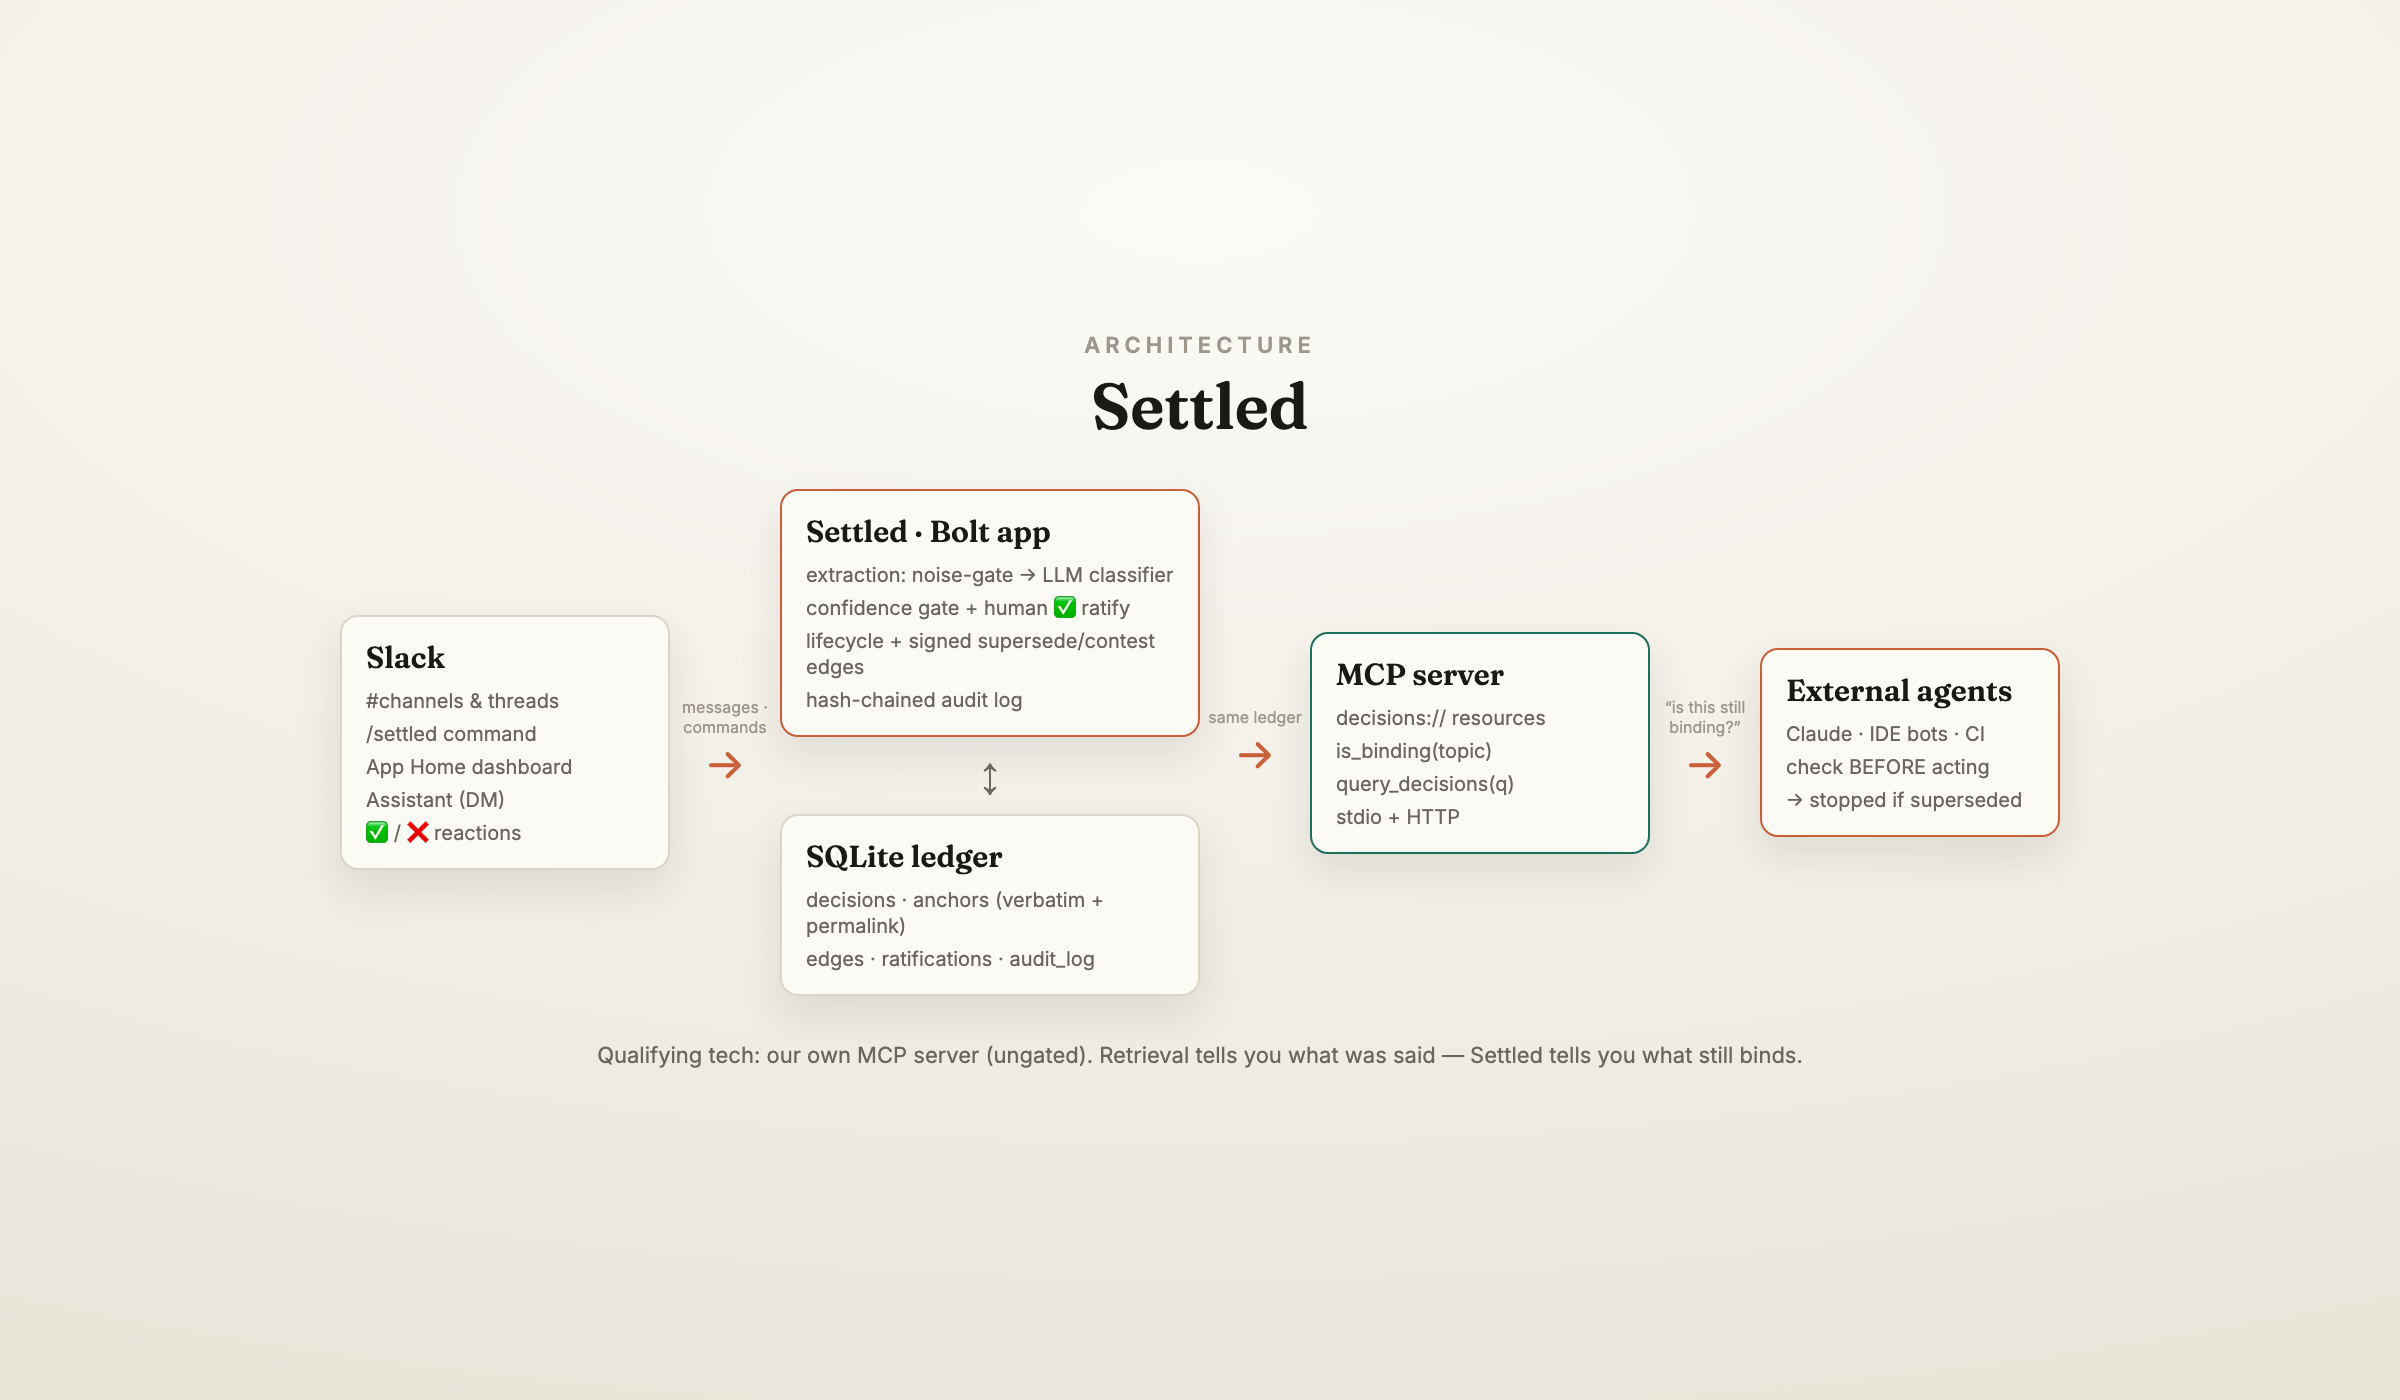
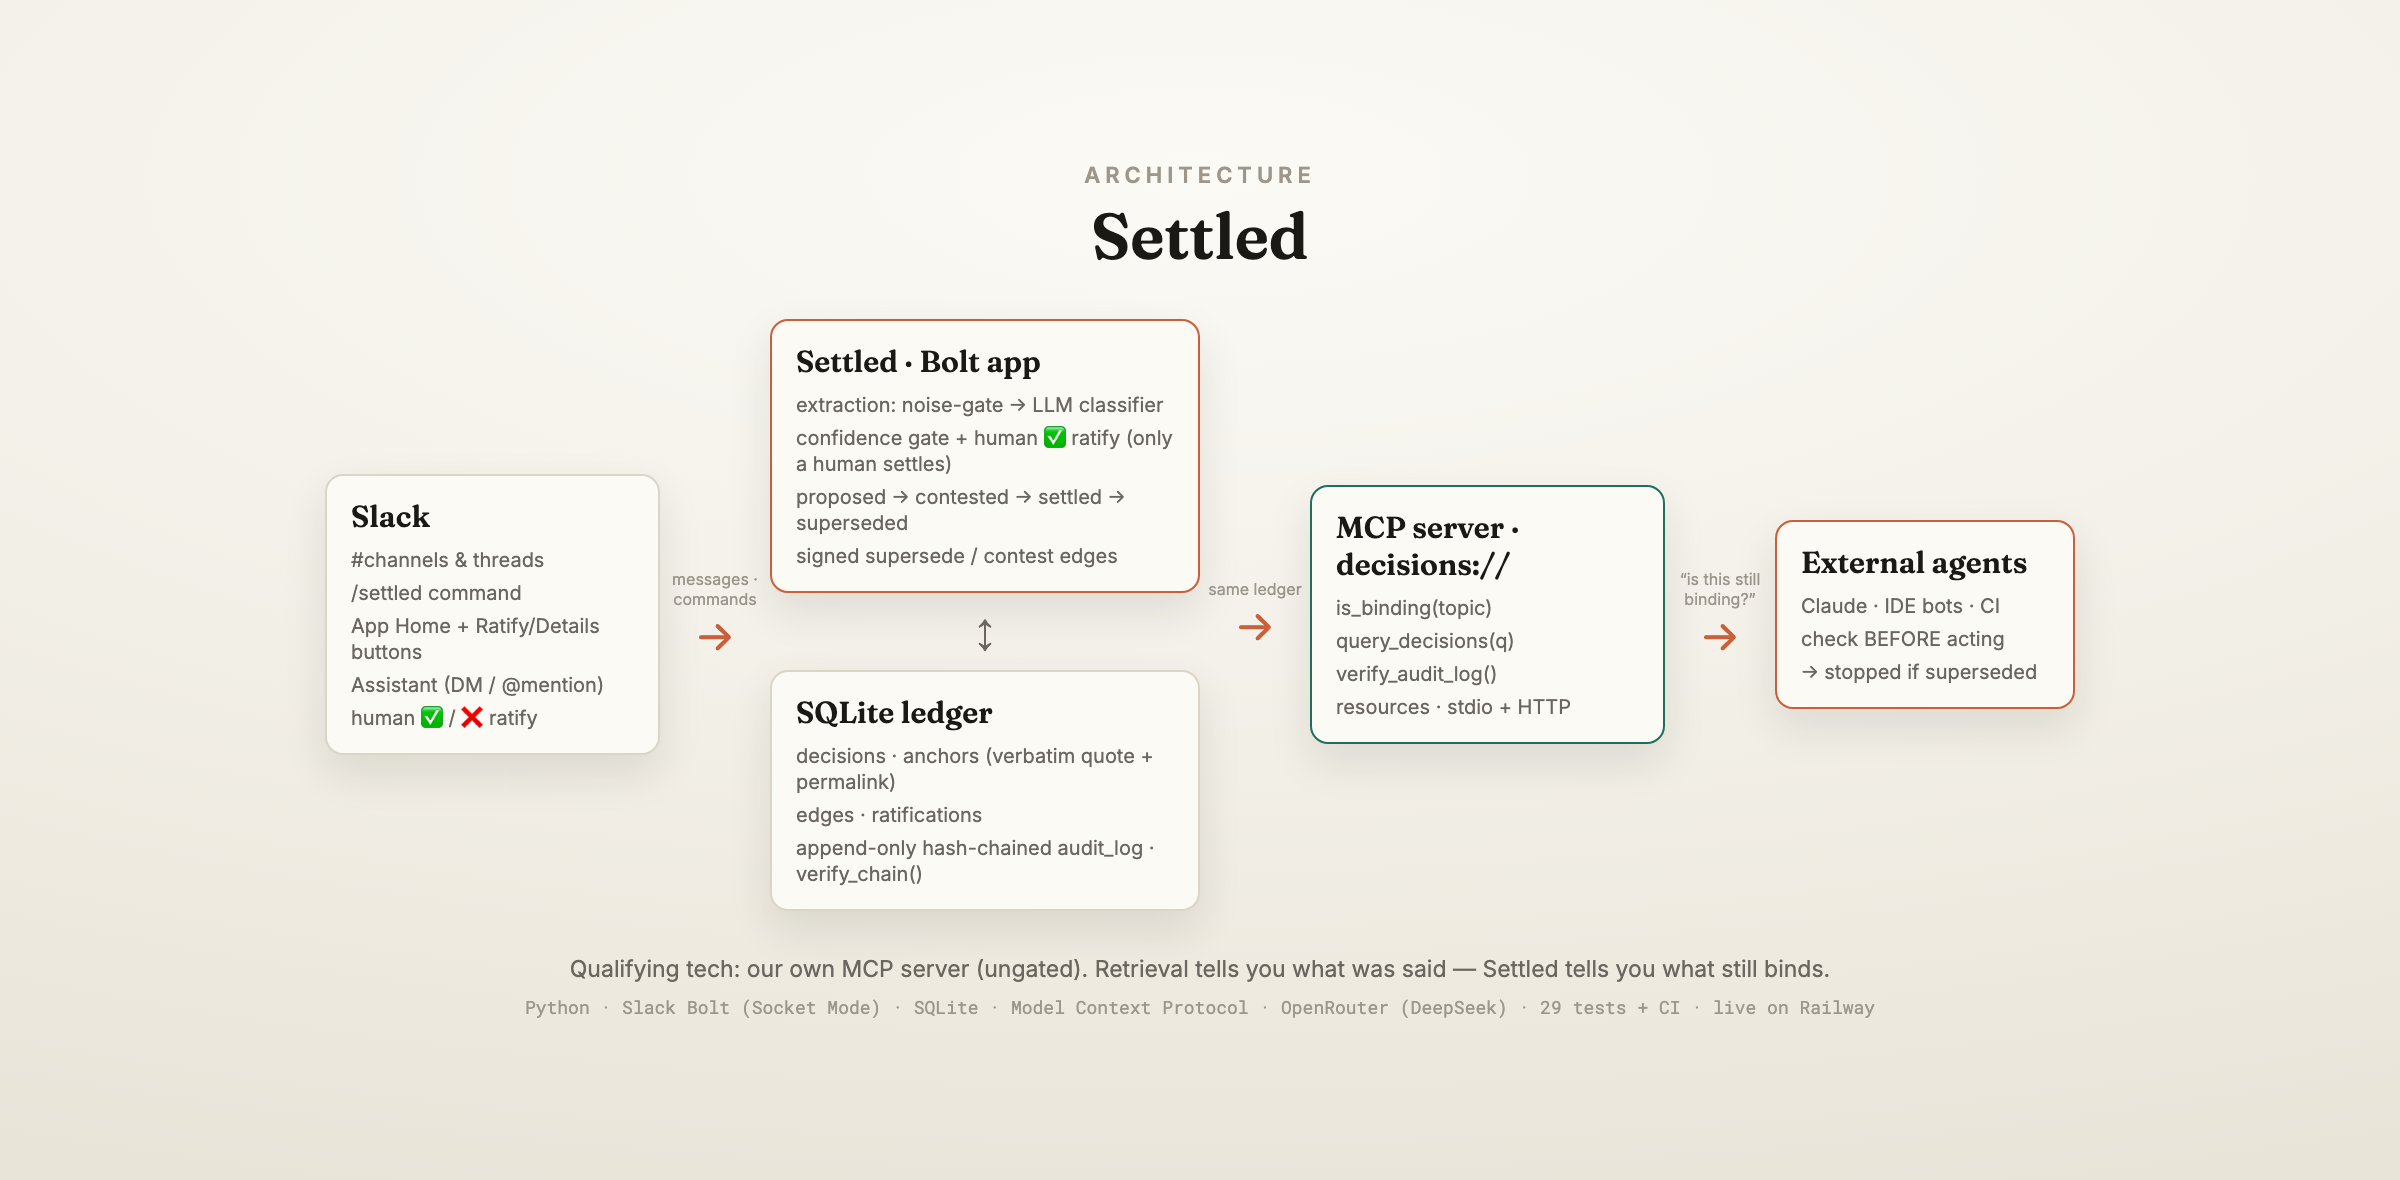
Architecture diagram: reflect current system (interactive buttons, lifecycle, verify_chain/verify_audit_log, tests+CI stack); tighten canvas

diff --git a/video/remotion/src/Architecture.tsx b/video/remotion/src/Architecture.tsx
@@ -35,26 +35,29 @@ export const Architecture: React.FC = () => (
     </div>
 
     <div style={{ display: "flex", alignItems: "center", justifyContent: "center" }}>
-      <Box title="Slack" accent={T.line} w={330}
-        lines={["#channels & threads", "/settled command", "App Home dashboard", "Assistant (DM)", "✅ / ❌ reactions"]} />
+      <Box title="Slack" accent={T.line} w={335}
+        lines={["#channels & threads", "/settled command", "App Home + Ratify/Details buttons", "Assistant (DM / @mention)", "human ✅ / ❌ ratify"]} />
       <Arrow label="messages · commands" />
       <div style={{ display: "flex", flexDirection: "column", gap: 18, alignItems: "center" }}>
-        <Box title="Settled · Bolt app" accent={T.clay} w={420}
-          lines={["extraction: noise-gate → LLM classifier", "confidence gate + human ✅ ratify", "lifecycle + signed supersede/contest edges", "hash-chained audit log"]} />
+        <Box title="Settled · Bolt app" accent={T.clay} w={430}
+          lines={["extraction: noise-gate → LLM classifier", "confidence gate + human ✅ ratify (only a human settles)", "proposed → contested → settled → superseded", "signed supersede / contest edges"]} />
         <div style={{ color: T.dim, fontSize: 34 }}>↕</div>
-        <Box title="SQLite ledger" accent={T.line} w={420}
-          lines={["decisions · anchors (verbatim + permalink)", "edges · ratifications · audit_log"]} />
+        <Box title="SQLite ledger" accent={T.line} w={430}
+          lines={["decisions · anchors (verbatim quote + permalink)", "edges · ratifications", "append-only hash-chained audit_log · verify_chain()"]} />
       </div>
       <Arrow label="same ledger" />
-      <Box title="MCP server" accent={T.green} w={340}
-        lines={["decisions:// resources", "is_binding(topic)", "query_decisions(q)", "stdio + HTTP"]} />
-      <Arrow label="“is this still binding?”" />
+      <Box title="MCP server · decisions://" accent={T.green} w={355}
+        lines={["is_binding(topic)", "query_decisions(q)", "verify_audit_log()", "resources · stdio + HTTP"]} />
+      <Arrow label={"“is this still\nbinding?”"} />
       <Box title="External agents" accent={T.clay} w={300}
         lines={["Claude · IDE bots · CI", "check BEFORE acting", "→ stopped if superseded"]} />
     </div>
 
-    <div style={{ textAlign: "center", marginTop: 46, fontFamily: T.sans, fontSize: 22, color: T.dim }}>
+    <div style={{ textAlign: "center", marginTop: 44, fontFamily: T.sans, fontSize: 23, color: T.dim }}>
       Qualifying tech: our own MCP server (ungated). Retrieval tells you what was said — Settled tells you what still binds.
+    </div>
+    <div style={{ textAlign: "center", marginTop: 12, fontFamily: T.mono, fontSize: 18, color: T.faint }}>
+      Python · Slack Bolt (Socket Mode) · SQLite · Model Context Protocol · OpenRouter (DeepSeek) · 29 tests + CI · live on Railway
     </div>
   </AbsoluteFill>
 );

diff --git a/video/remotion/src/Root.tsx b/video/remotion/src/Root.tsx
@@ -21,7 +21,7 @@ export const RemotionRoot: React.FC = () => (
       durationInFrames={1}
       fps={FPS}
       width={2400}
-      height={1400}
+      height={1180}
     />
   </>
 );